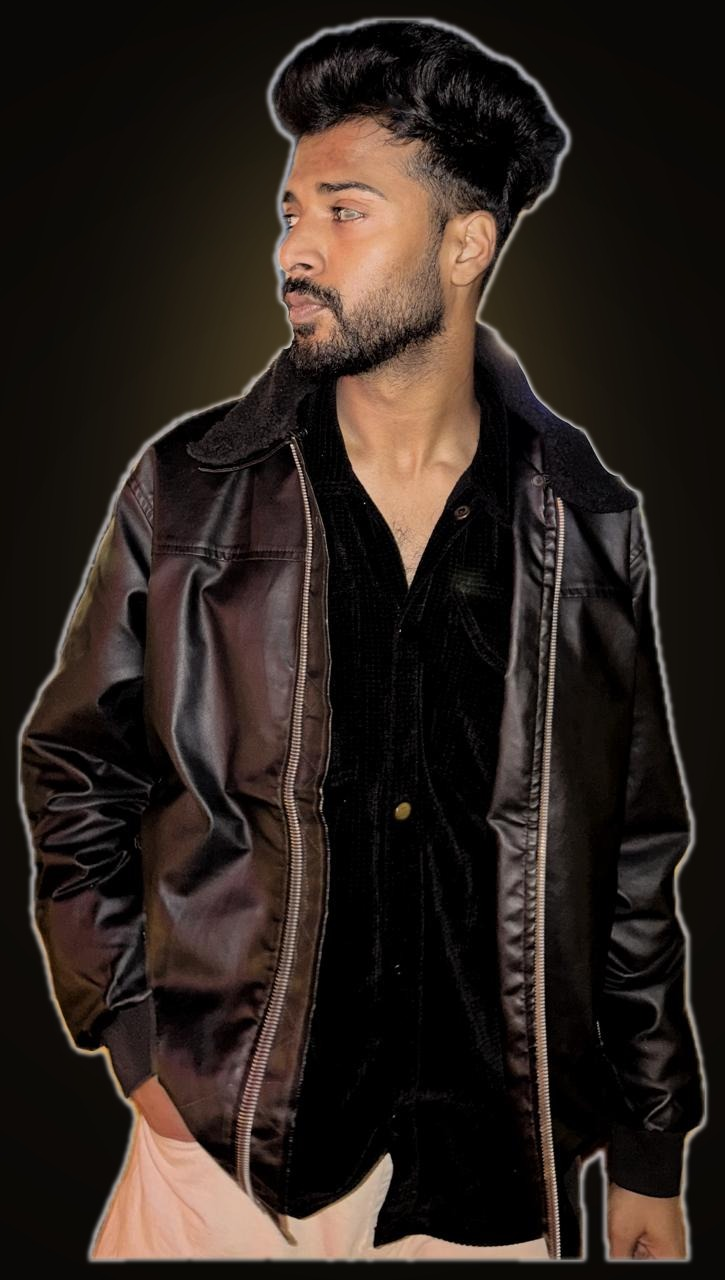
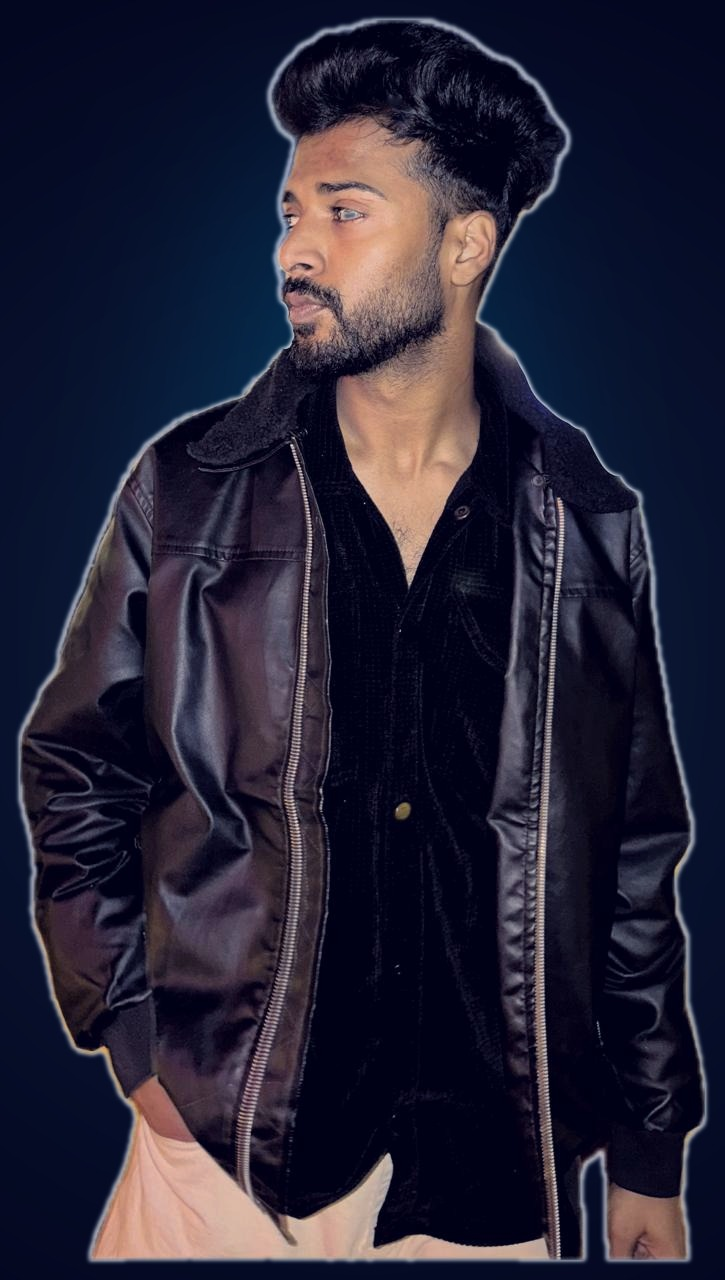
refactor: retheme portfolio to cold cinematic teal (Doom's Day reference)

diff --git a/src/styles/global.css b/src/styles/global.css
@@ -1,30 +1,30 @@
-/* =============== DESIGN SYSTEM — Warm Ink & Champagne =============== */
+/* =============== DESIGN SYSTEM — Cold Cinematic Teal =============== */
 
 /* =============== VARIABLES =============== */
 :root {
   --header-height: 4.5rem;
 
   /* palette */
-  --bg-950: #0e0b08;
-  --bg-900: hsl(24 9% 5%);
-  --bg-800: hsl(24 8% 9%);
-  --bg-700: hsl(24 7% 13%);
-  --glass: rgba(244, 239, 230, 0.04);
-  --glass-strong: rgba(244, 239, 230, 0.07);
-  --border: rgba(244, 239, 230, 0.1);
-  --border-strong: rgba(244, 239, 230, 0.17);
+  --bg-950: #070b0e;
+  --bg-900: hsl(200 30% 6%);
+  --bg-800: hsl(200 28% 10%);
+  --bg-700: hsl(198 26% 14%);
+  --glass: rgba(226, 240, 244, 0.04);
+  --glass-strong: rgba(226, 240, 244, 0.07);
+  --border: rgba(226, 240, 244, 0.1);
+  --border-strong: rgba(226, 240, 244, 0.17);
 
-  --ink: hsl(40 20% 94%);
-  --muted: hsl(35 8% 62%);
-  --faint: hsl(35 6% 46%);
+  --ink: hsl(200 15% 94%);
+  --muted: hsl(195 10% 60%);
+  --faint: hsl(195 8% 45%);
 
-  --accent: hsl(38 60% 55%);
-  --accent-2: hsl(42 70% 70%);
-  --accent-soft: hsl(38 60% 55% / 0.14);
-  --accent-glow: 0 0 24px hsl(38 60% 55% / 0.45);
-  --emerald: hsl(30 6% 78%);
-  --emerald-soft: hsl(30 6% 78% / 0.14);
-  --amber: hsl(30 5% 55%);
+  --accent: hsl(188 92% 48%);
+  --accent-2: hsl(166 80% 42%);
+  --accent-soft: hsl(188 92% 48% / 0.14);
+  --accent-glow: 0 0 24px hsl(188 92% 48% / 0.45);
+  --emerald: hsl(195 14% 78%);
+  --emerald-soft: hsl(195 14% 78% / 0.14);
+  --amber: hsl(198 10% 55%);
   --danger: hsl(0 84% 60%);
 
   /* typography */
@@ -70,7 +70,7 @@
 
 html {
   scroll-behavior: smooth;
-  scrollbar-color: hsl(35 8% 20%) var(--bg-900);
+  scrollbar-color: hsl(195 10% 20%) var(--bg-900);
   overflow-x: clip;
 }
 
@@ -88,8 +88,8 @@ body {
   color: var(--ink);
   background-color: var(--bg-900);
   background-image:
-    radial-gradient(1200px 700px at 15% -5%, hsl(38 60% 55% / 0.07), transparent 55%),
-    radial-gradient(1000px 600px at 85% 0%, hsl(42 70% 70% / 0.05), transparent 50%),
+    radial-gradient(1200px 700px at 15% -5%, hsl(188 92% 48% / 0.07), transparent 55%),
+    radial-gradient(1000px 600px at 85% 0%, hsl(166 80% 42% / 0.05), transparent 50%),
     linear-gradient(180deg, var(--bg-950), var(--bg-900) 40%);
   background-attachment: fixed;
   line-height: 1.6;
@@ -305,8 +305,8 @@ html.no-js .reveal {
 
 .btn--primary {
   color: var(--bg-950);
-  background: linear-gradient(120deg, var(--accent), hsl(40 65% 62%));
-  box-shadow: 0 4px 24px hsl(38 60% 55% / 0.35);
+  background: linear-gradient(120deg, var(--accent), hsl(166 80% 46%));
+  box-shadow: 0 4px 24px hsl(188 92% 48% / 0.35);
 }
 .btn--primary:hover {
   box-shadow: var(--accent-glow);
@@ -437,7 +437,7 @@ html.no-js .reveal {
   padding: 0.6rem 1.2rem;
   border-radius: var(--radius-pill);
   background: var(--accent-soft);
-  border: 1px solid hsl(38 60% 55% / 0.35);
+  border: 1px solid hsl(188 92% 48% / 0.35);
   color: var(--accent);
   font-family: var(--display);
   font-weight: var(--fw-semi);
@@ -480,7 +480,7 @@ html.no-js .reveal {
   inset: 0;
   pointer-events: none;
   background:
-    conic-gradient(from 210deg at 50% 60%, transparent 0deg, hsl(38 60% 55% / 0.16) 90deg, transparent 180deg, hsl(42 70% 70% / 0.12) 270deg, transparent 360deg);
+    conic-gradient(from 210deg at 50% 60%, transparent 0deg, hsl(188 92% 48% / 0.16) 90deg, transparent 180deg, hsl(166 80% 42% / 0.12) 270deg, transparent 360deg);
   filter: blur(60px);
   animation: beam-drift 14s ease-in-out infinite alternate;
 }
@@ -595,7 +595,7 @@ html.no-js .reveal {
 /* =============== TERMINAL =============== */
 .terminal {
   background: linear-gradient(180deg, rgba(10, 10, 10, 0.85), rgba(6, 6, 6, 0.9));
-  border: 1px solid hsl(38 60% 55% / 0.25);
+  border: 1px solid hsl(188 92% 48% / 0.25);
   border-radius: var(--radius);
   overflow: hidden;
   box-shadow: 0 24px 60px rgba(0, 0, 0, 0.55), inset 0 1px 0 rgba(255, 255, 255, 0.05);
@@ -711,7 +711,7 @@ html.no-js .reveal {
   overflow: hidden;
   border-radius: var(--radius);
   aspect-ratio: 4 / 5;
-  background: radial-gradient(120% 120% at 50% 0%, hsl(38 60% 55% / 0.12), transparent 60%);
+  background: radial-gradient(120% 120% at 50% 0%, hsl(188 92% 48% / 0.12), transparent 60%);
 }
 .hero__photo-frame::after {
   content: "";
@@ -719,7 +719,7 @@ html.no-js .reveal {
   inset: 0;
   border-radius: inherit;
   padding: 1px;
-  background: linear-gradient(160deg, hsl(38 60% 55% / 0.55), transparent 40%, transparent 62%, hsl(40 20% 94% / 0.14));
+  background: linear-gradient(160deg, hsl(188 92% 48% / 0.55), transparent 40%, transparent 62%, hsl(200 15% 94% / 0.14));
   -webkit-mask: linear-gradient(#000 0 0) content-box, linear-gradient(#000 0 0);
   -webkit-mask-composite: xor;
   mask: linear-gradient(#000 0 0) content-box, linear-gradient(#000 0 0);
@@ -828,7 +828,7 @@ html.no-js .reveal {
 }
 .about__stat:hover {
   transform: translateY(-4px);
-  border-color: hsl(38 60% 55% / 0.4);
+  border-color: hsl(188 92% 48% / 0.4);
   box-shadow: 0 12px 32px rgba(0, 0, 0, 0.3);
 }
 .about__stat .num {
@@ -899,7 +899,7 @@ html.no-js .reveal {
 }
 .bento__card:hover {
   transform: translateY(-5px);
-  border-color: hsl(38 60% 55% / 0.35);
+  border-color: hsl(188 92% 48% / 0.35);
   box-shadow: 0 20px 48px rgba(0, 0, 0, 0.35), 0 0 40px var(--accent-soft);
 }
 .bento__card--wide { grid-column: span 8; }
@@ -909,7 +909,7 @@ html.no-js .reveal {
   content: "";
   position: absolute;
   inset: 0;
-  background: radial-gradient(500px 300px at var(--mx, 50%) var(--my, 0%), hsl(38 60% 55% / 0.08), transparent 60%);
+  background: radial-gradient(500px 300px at var(--mx, 50%) var(--my, 0%), hsl(188 92% 48% / 0.08), transparent 60%);
   opacity: 0;
   transition: opacity 0.4s ease;
   pointer-events: none;
@@ -932,7 +932,7 @@ html.no-js .reveal {
 }
 .bento__card:hover .bento__icon {
   color: var(--accent);
-  border-color: hsl(38 60% 55% / 0.4);
+  border-color: hsl(188 92% 48% / 0.4);
   box-shadow: 0 0 20px var(--accent-soft);
 }
 .bento__card[data-tint="emerald"] .bento__icon {
@@ -948,7 +948,7 @@ html.no-js .reveal {
 .bento__card[data-tint="cyan"] .bento__icon {
   color: var(--accent);
   background: var(--accent-soft);
-  border-color: hsl(38 60% 55% / 0.25);
+  border-color: hsl(188 92% 48% / 0.25);
 }
 
 .bento__card h3 {
@@ -1019,7 +1019,7 @@ html.no-js .reveal {
 }
 .case-card:hover {
   transform: translateY(-5px);
-  border-color: hsl(42 70% 70% / 0.35);
+  border-color: hsl(166 80% 42% / 0.35);
   box-shadow: 0 20px 48px rgba(0, 0, 0, 0.35);
 }
 .case-card__preview {
@@ -1156,7 +1156,7 @@ html.no-js .reveal {
 }
 .work__row:hover {
   transform: translateX(6px);
-  border-color: hsl(38 60% 55% / 0.35);
+  border-color: hsl(188 92% 48% / 0.35);
   background: var(--glass-strong);
 }
 .work__period {
@@ -1204,7 +1204,7 @@ html.no-js .reveal {
 }
 .result-card:hover {
   transform: translateY(-5px);
-  border-color: hsl(42 70% 70% / 0.35);
+  border-color: hsl(166 80% 42% / 0.35);
   box-shadow: 0 20px 48px rgba(0, 0, 0, 0.3);
 }
 .result-card i {
@@ -1222,7 +1222,7 @@ html.no-js .reveal {
 }
 .result-card:hover i {
   color: var(--accent);
-  border-color: hsl(38 60% 55% / 0.4);
+  border-color: hsl(188 92% 48% / 0.4);
 }
 .result-card .num {
   font-family: var(--display);
@@ -1247,7 +1247,7 @@ html.no-js .reveal {
   align-items: start;
 }
 .ai-demo .terminal {
-  border-color: hsl(42 70% 70% / 0.25);
+  border-color: hsl(166 80% 42% / 0.25);
   box-shadow: 0 24px 60px rgba(0, 0, 0, 0.5), inset 0 1px 0 rgba(255, 255, 255, 0.05);
 }
 .ai-demo__list {
@@ -1265,7 +1265,7 @@ html.no-js .reveal {
   transition: border-color 0.25s ease, transform 0.25s ease;
 }
 .ai-demo__item:hover {
-  border-color: hsl(38 60% 55% / 0.35);
+  border-color: hsl(188 92% 48% / 0.35);
   transform: translateX(4px);
 }
 .ai-demo__item i {
@@ -1306,7 +1306,7 @@ html.no-js .reveal {
 }
 .contact__channel:hover {
   transform: translateY(-3px);
-  border-color: hsl(38 60% 55% / 0.4);
+  border-color: hsl(188 92% 48% / 0.4);
   box-shadow: 0 12px 32px rgba(0, 0, 0, 0.3);
 }
 .contact__channel .ic {
@@ -1319,7 +1319,7 @@ html.no-js .reveal {
   font-size: 1.4rem;
   color: var(--accent);
   background: var(--accent-soft);
-  border: 1px solid hsl(38 60% 55% / 0.25);
+  border: 1px solid hsl(188 92% 48% / 0.25);
   flex-shrink: 0;
 }
 .contact__channel:nth-child(2) .ic { color: var(--emerald); background: var(--emerald-soft); border-color: var(--border); }
